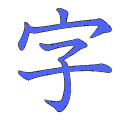
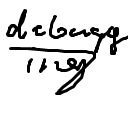
refactor

Changed region(s): [[0.0312, 0.0472, 1.0, 0.8976]]

diff --git a/popup.js b/popup.js
@@ -1,4 +1,6 @@
 import { TabManager, TabFactory } from './tab-objects.js';
+import { lookupKanjiInfo, getSettings, setSettings, saveTabState, setStyling, getRadicals} from './controller.js';
+
 
 const tabs = await chrome.runtime.sendMessage({
     type: "GET_TAB_STATE"
@@ -6,36 +8,18 @@ const tabs = await chrome.runtime.sendMessage({
 let tabManager = await TabManager.create(tabs);
 let tabFactory = new TabFactory();
 
-async function setStyling() {
-    const theme = await chrome.runtime.sendMessage({
-        type: "GET_SETTING",
-        key: "theme"
-    });
-
-    if (theme === "dark") {
-        document.documentElement.style.setProperty('--color1', 'rgb(239,239,239)');
-        document.documentElement.style.setProperty('--color2', 'rgb(170,170,170)');
-        document.documentElement.style.setProperty('--color3', 'rgb(136,136,136)');
-        document.documentElement.style.setProperty('--color4', 'rgb(68,68,68)');
-        document.documentElement.style.setProperty('--color5', 'rgb(51,51,51)');
-        document.documentElement.style.setProperty('--color6', 'rgb(34,34,34)');
-        document.documentElement.style.setProperty('--bkg', 'rgb(24,24,24)');
-    } else {
-        document.documentElement.style.setProperty('--bkg', 'rgb(239,239,239)');
-        document.documentElement.style.setProperty('--color6', 'rgb(255, 255, 255)');
-        document.documentElement.style.setProperty('--color5', 'rgb(170,170,170)');
-        document.documentElement.style.setProperty('--color4', 'rgb(68, 68, 68)');
-        document.documentElement.style.setProperty('--color3', 'rgb(102, 102, 102)');
-        document.documentElement.style.setProperty('--color2', 'rgb(136, 136, 136)');
-        document.documentElement.style.setProperty('--color1', 'rgb(34, 34, 34)');
-    }
-}
-
 /* Tab logic functions */
 
 async function appendKanjiTab(kanji) {
     try {
-        const tab = await tabFactory.createKanjiTab(kanji, tabManager.getLength());
+        const tab = await tabFactory.createKanjiTab({
+            kanji: kanji, 
+            index: tabManager.getLength(),
+            kanjiInfo: await lookupKanjiInfo(kanji),
+            settings: await getSettings(),
+            radicals: await getRadicals()
+
+        });
         tabManager.createNewTab(tab);
         renderTabs();
     } catch {
@@ -49,7 +33,10 @@ function appendHomeTab() {
     renderTabs();
 }
 async function appendSettingTab() {
-    const tab = await tabFactory.createSettingsTab(tabManager.getLength());
+    const tab = await tabFactory.createSettingsTab({
+        index: tabManager.getLength(),
+        settings: await getSettings()
+    });
     tabManager.createNewTab(tab);
     renderTabs();
 }
@@ -62,7 +49,13 @@ function setHomeTab() {
 async function setKanjiTab(kanji) {
     try {
         const currentTabIndex = tabManager.getCurrentTabIndex();
-        const tab = await tabFactory.createKanjiTab(kanji, currentTabIndex);
+        const tab = await tabFactory.createKanjiTab({
+            kanji: kanji,
+            index: currentTabIndex,
+            kanjiInfo: await lookupKanjiInfo(kanji),
+            settings: await getSettings(),
+            radicals: await getRadicals()
+        });
         tabManager.changeCurrentTab(tab);
         renderTabs();
     } catch {
@@ -102,9 +95,9 @@ async function appendSearch() {
     await appendKanjiTab(searchValue);
 }
 
-/* Chrome storage functions */
 
-async function submitSettings(event) {
+
+export async function submitSettings(event) {
     event.preventDefault();
     const form = event.target;
 
@@ -127,13 +120,7 @@ async function submitSettings(event) {
         settings
     });
 }
-async function saveTabState() {
-    var tabState = tabManager.toJson();
-    await chrome.runtime.sendMessage({
-        type: "SET_TAB_STATE",
-        tabState
-    })
-}
+
 
 /* Render */
 
@@ -181,7 +168,7 @@ function renderTabs() {
         const appendSearchBtn = document.getElementById("append-search");
         appendSearchBtn.addEventListener("click", appendSearch);
     }
-    saveTabState();
+    saveTabState(tabManager.toJson());
 }
 
 /* Constant top-page buttons */

diff --git a/controller.js b/controller.js
@@ -1,0 +1,59 @@
+export async function lookupKanjiInfo(kanji) {
+    return await chrome.runtime.sendMessage({
+            type: "KANJI_LOOKUP",
+            kanji: kanji
+        });
+}
+
+export async function getSettings() {
+    return await chrome.runtime.sendMessage({
+        type: "GET_SETTINGS"
+    });
+}
+
+export async function setSettings(settings) {
+    return await chrome.runtime.sendMessage({
+        type: "SET_SETTINGS",
+        
+    })
+}
+
+export async function getRadicals(kanji) {
+    return await chrome.runtime.sendMessage({
+        type: "GET_RADICALS",
+        kanji: kanji
+    });
+}
+
+export async function saveTabState(tabState) {
+    await chrome.runtime.sendMessage({
+        type: "SET_TAB_STATE",
+        tabState
+    })
+}
+
+
+export async function setStyling() {
+    const theme = await chrome.runtime.sendMessage({
+        type: "GET_SETTING",
+        key: "theme"
+    });
+
+    if (theme === "dark") {
+        document.documentElement.style.setProperty('--color1', 'rgb(239,239,239)');
+        document.documentElement.style.setProperty('--color2', 'rgb(170,170,170)');
+        document.documentElement.style.setProperty('--color3', 'rgb(136,136,136)');
+        document.documentElement.style.setProperty('--color4', 'rgb(68,68,68)');
+        document.documentElement.style.setProperty('--color5', 'rgb(51,51,51)');
+        document.documentElement.style.setProperty('--color6', 'rgb(34,34,34)');
+        document.documentElement.style.setProperty('--bkg', 'rgb(24,24,24)');
+    } else {
+        document.documentElement.style.setProperty('--bkg', 'rgb(239,239,239)');
+        document.documentElement.style.setProperty('--color6', 'rgb(255, 255, 255)');
+        document.documentElement.style.setProperty('--color5', 'rgb(170,170,170)');
+        document.documentElement.style.setProperty('--color4', 'rgb(68, 68, 68)');
+        document.documentElement.style.setProperty('--color3', 'rgb(102, 102, 102)');
+        document.documentElement.style.setProperty('--color2', 'rgb(136, 136, 136)');
+        document.documentElement.style.setProperty('--color1', 'rgb(34, 34, 34)');
+    }
+}

diff --git a/tab-objects.js b/tab-objects.js
@@ -1,4 +1,6 @@
 import { HtmlFactory } from './html-factory.js'
+import { getSettings, lookupKanjiInfo, getRadicals } from './controller.js'
+
 
 const htmlFactory = new HtmlFactory();
 
@@ -64,14 +66,19 @@ class Tab {
 }
 
 export class TabFactory {
-    async createKanjiTab(kanji, index) {
-        const html = await htmlFactory.kanjiTabPanelHtml(kanji);
+    createKanjiTab({kanji, index, kanjiInfo, settings, radicals}) {
+        const html = htmlFactory.kanjiTabPanelHtml({
+            kanji: kanji,
+            kanjiInfo: kanjiInfo,
+            settings: settings,
+            radicals: radicals
+        });
         const tabPanel = new TabPanel(html);
         return new Tab(kanji, index, tabPanel);
     }
 
-    async createSettingsTab(index) {
-        const html = await htmlFactory.settingTabPanelHtml();
+    async createSettingsTab({index, settings}) {
+        const html = htmlFactory.settingTabPanelHtml({settings: settings});
         const tabPanel = new TabPanel(html);
         return new Tab('S', index, tabPanel);
     }
@@ -98,9 +105,18 @@ export class TabManager {
                     return tabFactory.createHomeTab(i);
                 }
                 if (tabName === 'S') {
-                    return await tabFactory.createSettingsTab(i);
+                    return await tabFactory.createSettingsTab({
+                        index: i,
+                        settings: await getSettings()
+                    });
                 }
-                    return await tabFactory.createKanjiTab(tabName, i);
+                    return await tabFactory.createKanjiTab({
+                        kanji: tabName,
+                        index: i,
+                        kanjiInfo: await lookupKanjiInfo(tabName),
+                        settings: await getSettings(),
+                        radicals: await getRadicals(tabName)
+                    });
             })
         );
         return new TabManager(tabs, tabManagerJson.index);

diff --git a/html-factory.js b/html-factory.js
@@ -226,20 +226,7 @@ export class HtmlFactory {
         return res;
     }
 
-    async kanjiTabPanelHtml(kanji) {
-        const kanjiInfo = await chrome.runtime.sendMessage({
-            type: "KANJI_LOOKUP",
-            kanji: kanji
-        });
-
-        const settings = await chrome.runtime.sendMessage({
-            type: "GET_SETTINGS"
-        });
-
-        const radicals = await chrome.runtime.sendMessage({
-            type: "GET_RADICALS",
-            kanji: kanji
-        })
+    kanjiTabPanelHtml({kanji, kanjiInfo, settings, radicals}) {
 
         const isJp = (settings.etymologyLanguage === 'jp');
         const isKatakana = (settings.onyomiKana === 'katakana');
@@ -378,11 +365,7 @@ export class HtmlFactory {
         return res;
     }
 
-    async settingTabPanelHtml() {
-        const settings = await chrome.runtime.sendMessage({
-            type: "GET_SETTINGS"
-        });
-
+    settingTabPanelHtml({settings}) {
         const language = (settings.etymologyLanguage === 'jp');
         const hoverHotkey = ['ctrl', 'alt', 'auto'].indexOf(settings.hoverHotkey);
         const newTabHotkey = (settings.newTabHotkey === 'alt+t');